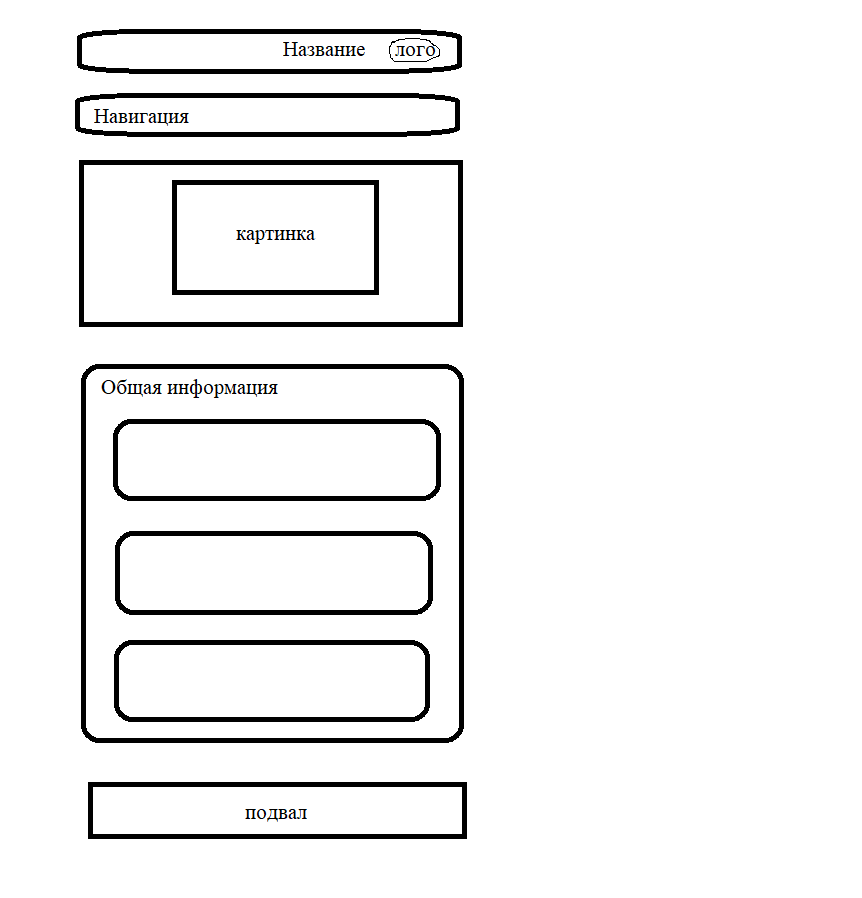
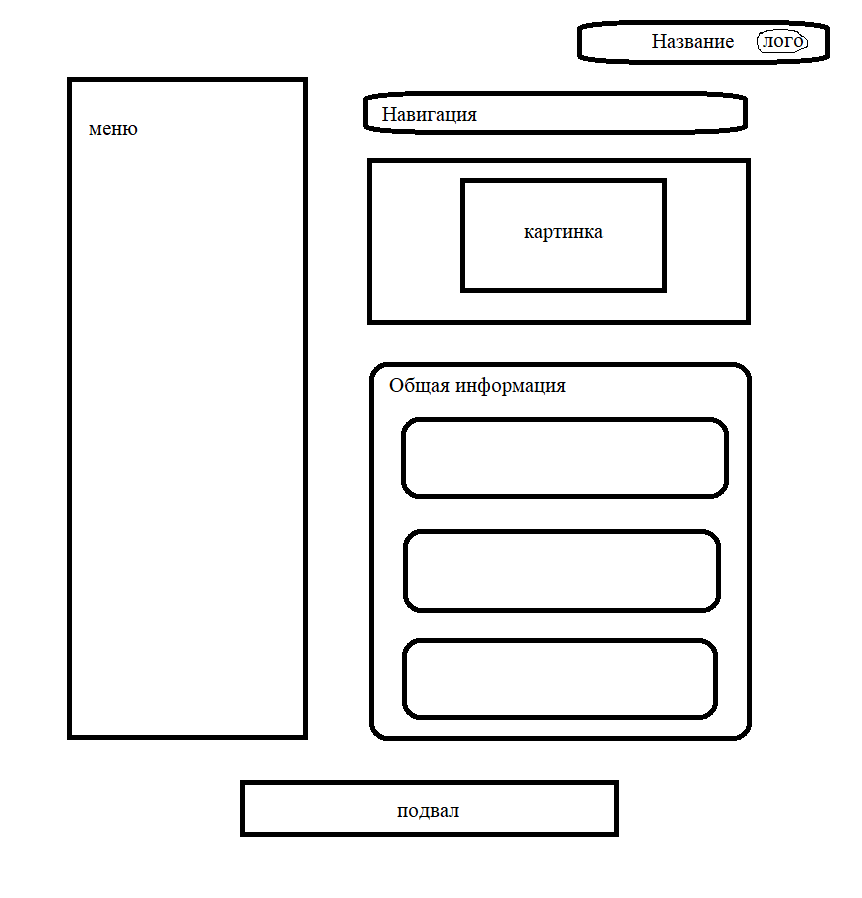
lab3

Changed region(s): [[0.0603, 0.0, 0.9652, 0.9354], [0.6032, 0.2494, 0.6937, 0.2806]]

diff --git a/style.css b/style.css
@@ -1,17 +1,34 @@
 * {
-    font-size: 24px;
+    font-size: 14px;
     font-family: Arial;
     color: #B8950F;
+}
+@media screen and (max-width: 480px) {
+    #site-header-section > div{
+        display: none;
+    }
 }
 html, body, h1, h2, h3 {
     margin: 0;
     padding: 0;
     border: 0;
 }
+body{
+    display: grid;
+    grid-template-areas: "header header" "menu main" "footer footer";
+    grid-template-rows: 115px 1fr;
+    grid-template-columns: calc(10% + 100px) 1fr;
+    height: 100vh;
+    margin: 0;
+}
 #site-header {
+    position: sticky;
+    top:0;
+    background: white;
+    grid-area: header;
     width: 100%;
     height: 110px;
-    border-bottom: 10px solid #ff0bf2;
+    border-bottom: 5px solid #ff0bf2;
 }
 #site-header-section {
     margin-top: 20px;
@@ -25,13 +42,15 @@ html, body, h1, h2, h3 {
     height: auto;
 }
 #site-header-text{
-    font-size: 44px;
+    font-size: 48px;
     color: #0EB09C;
     background: #635003;
 }
 #site-header-quote {
     color: #ff0bf2;
     background: #635003;
+    text-align: center;
+    font-size:22px;
 }
 #site-header-image {
     margin-left: 20px;
@@ -39,6 +58,29 @@ html, body, h1, h2, h3 {
     width: 80px;
     background-color: #635003;
 }
+#site-menu{
+    grid-area: menu;
+    text-align: center;
+    border-right: 5px solid #ff0bf2;
+    background: white;
+}
+#site-menu a{
+    display: block;
+    padding: 8px;
+    text-decoration: none;
+    color: #635003;
+}
+
+#site-menu a.active {
+    background-color: #635633;
+    color: white;
+}
+
+#site-menu a:hover:not(.active) {
+    background-color: #635003;
+    color: white;
+}
+
 #nav-section{
     border: 5px solid #0EB09C;
     border-radius: 15px;
@@ -53,23 +95,39 @@ html, body, h1, h2, h3 {
     text-transform: capitalize;
 }
 #nav-section-nav{
+    font-size: 22px;
     margin: 20px;
     border: 1px dotted #0EB09C;
 }
-
+.nav-inside-image{
+    float:right;
+    width:150px;
+    margin: 20px auto;
+    box-shadow: 5px 5px 15px 5px #0EB09C;
+    background-color: #0EB09C;
+}
 .nav-section-ul{
+    font-size: inherit;
     padding-left:40px;
+    display: inline-block;
 }
 .nav-section-item-article{
+    font-size: inherit;
     color: #0EB09C;
     line-height: 40px;
 }
 .nav-section-item-section{
+    font-size: inherit;
     color: #ff0bf2;
     line-height: 30px;
 }
+#nav-section-nav a{
+    font-size: inherit;
+    text-decoration: none;
+}
 
 #inside-images{
+    clear:right;
     border: 5px solid #0EB09C;
     border-radius: 15px;
     margin: 10px 5% 10px;
@@ -95,7 +153,6 @@ html, body, h1, h2, h3 {
     color: #0EB09C;
     border-bottom: 3px solid #0EB09C;
     text-align: center;
-
 }
 .article-page-section{
     padding-top: 20px;
@@ -112,65 +169,92 @@ html, body, h1, h2, h3 {
     border-bottom: 1px dotted #ff0bf2;
 }
 .article-page-section > div {
+    font-size: 22px;
     margin: 20px;
     text-align: justify;
     color: #635003;
 }
 .article-page-section > div > p {
-    text-indent: 40px;
+    font-size: inherit;
     margin: 0px;
     color: inherit;
     white-space: normal;
 }
 .article-page-section-ul{
+    font-size: inherit;
     padding-left:40px;
     line-height: 30px;
     font-weight: bold;
     color: inherit;
 }
 .article-page-section-item-pctype{
+    font-size: inherit;
     font-weight: inherit;
     margin-top: 30px;
     color: inherit;
 }
 .article-page-section-item-components{
+    font-size: inherit;
     font-weight: lighter;
     color: inherit;
 }
 
 #completed-ul{
+    font-size: inherit;
     padding-left:40px;
     line-height: 30px;
     color: inherit;
 }
 #plan-ul{
+    font-size: inherit;
     padding-left:40px;
     line-height: 30px;
     color: inherit;
 }
 .completed-item{
+    font-size: inherit;
     text-decoration: line-through;
     color: inherit;
 }
 .plan-item{
+    font-size: inherit;
     text-decoration: underline;
     color: inherit;
 }
 
 
 #site-footer {
+    grid-area: footer;
     width: 100%;
     height: 50px;
-    border-top: 1px solid #635003;
+    border-top: 5px solid #ff0bf2;
     text-align: center;
     color: #635003;
+    background: white;
 }
 #site-footer > p {
     margin-top: 20px;
-    font-size: 20px;
+    font-size: 16px;
     color: inherit;
 }
-#site-footer > p > a {
-    font-size: inherit;
-    color: #B8950F;
+
+
+#contacts-table {
+    margin: 10px;
+    width: calc(100% - 20px);
+    text-align: center;
+    border: 1px solid #635003;
+    color: #ff0bf2;
+}
+#contacts-table td{
+    color: white;
+}
+#contacts-table th{
+    color: white;
+}
+#contacts-table tr:nth-child(odd) {
+    background-color: #635003;
+}
+#contacts-table tr:nth-child(even) {
+    background-color: #B8950F;
 }

diff --git a/contacts.html b/contacts.html
@@ -1,0 +1,61 @@
+<!DOCTYPE html>
+<html lang="ru">
+<head>
+    <meta charset="UTF-8">
+    <meta name="keywords" content="пекарня, пироги, киберкафе, доставка">
+    <meta name="description" content="Киберклуб рядом с метро, новейшее оборудование, удобные игровые места и вкусная выпечка по доступным ценам!">
+    <title>Киберклуб из другого теста, Работаем круглосуточно!</title>
+    <link rel="stylesheet" href="style.css">
+</head>
+<body>
+    <header id="site-header">
+        <section id="site-header-section">
+            <div>
+                <h1 id="site-header-text">КиберПекарня</h1>
+                <quote id="site-header-quote">Киберклуб из другого теста!</quote>
+            </div>
+            <img src="logo.jpg" id="site-header-image">
+        </section>
+    </header>
+    <main>
+        <div class="article-page">
+            <h2 class="article-page-header">Контакты:</h2>
+            <table id="contacts-table">
+                <tr>
+                    <th>Для чего звонить?</th>
+                    <th>Куда звонить?</th>
+                </tr>
+                <tr>
+                    <td>Бронирование</td>
+                    <td>+7-111-222-33-44</td>
+                </tr>
+                <tr>
+                    <td>Заказ</td>
+                    <td>+7-444-333-22-11</td>
+                </tr>
+                <tr>
+                    <td>Горячая линия</td>
+                    <td>+7-123-456-78-90</td>
+                </tr>
+                <tr>
+                    <td>Администрация</td>
+                    <td>+7-986-754-73-29</td>
+                </tr>
+            </table>
+        </div>
+    </main>
+    <div id="site-menu">
+        <p>
+            <a href="index.html">Главная</a>
+        </p>
+        <p>
+            <a class="active" href="contacts.html">Контакты</a>
+        </p>
+    </div>
+    <footer id=site-footer>
+        <p>Контакты: <a href="instagram.com/cyber.pekarnya">Instagram</a>; +79867547329; Россия, г. Санкт-Петербург, Приозерная ул., д. 15</p>
+    </footer>
+    <script src="https://rawcdn.githack.com/ArtMan-8/outline-prototype/e73da2a1ee9031564b56ed5d98541891f7123933/js/outline-control.js"></script>
+
+</body>
+</html>

diff --git a/index.html b/index.html
@@ -35,7 +35,7 @@
         <div id="inside-images">
             <img src="pictures-inside/3.jpg" class="inside-image">
         </div>
-        <article id="article-about" class="article-page">
+        <div id="article-about" class="article-page">
             <h2 class="article-page-header">О компании</h2>
             <section id="about-who" class="article-page-section">
                 <h3 class="article-page-section-header">Кто мы?</h3>
@@ -112,11 +112,18 @@
                 </div>
 
             </section>
-        </article>
+        </div>
     </main>
-
+    <div id="site-menu">
+        <p>
+            <a class="active" href="index.html">Главная</a>
+        </p>
+        <p>
+            <a  href="contacts.html">Контакты</a>
+        </p>
+    </div>
     <footer id=site-footer>
-        <p>Контакты: <a href="instagram.com/cyber.pekarnya">Instagram</a>; +798675473292; Россия, г. Санкт-Петербург, Приозерная ул., д. 15</p>
+        <p>Контакты: <a href="instagram.com/cyber.pekarnya">Instagram</a>; +79867547329; Россия, г. Санкт-Петербург, Приозерная ул., д. 15</p>
     </footer>
     <script src="https://rawcdn.githack.com/ArtMan-8/outline-prototype/e73da2a1ee9031564b56ed5d98541891f7123933/js/outline-control.js"></script>
 </body>
